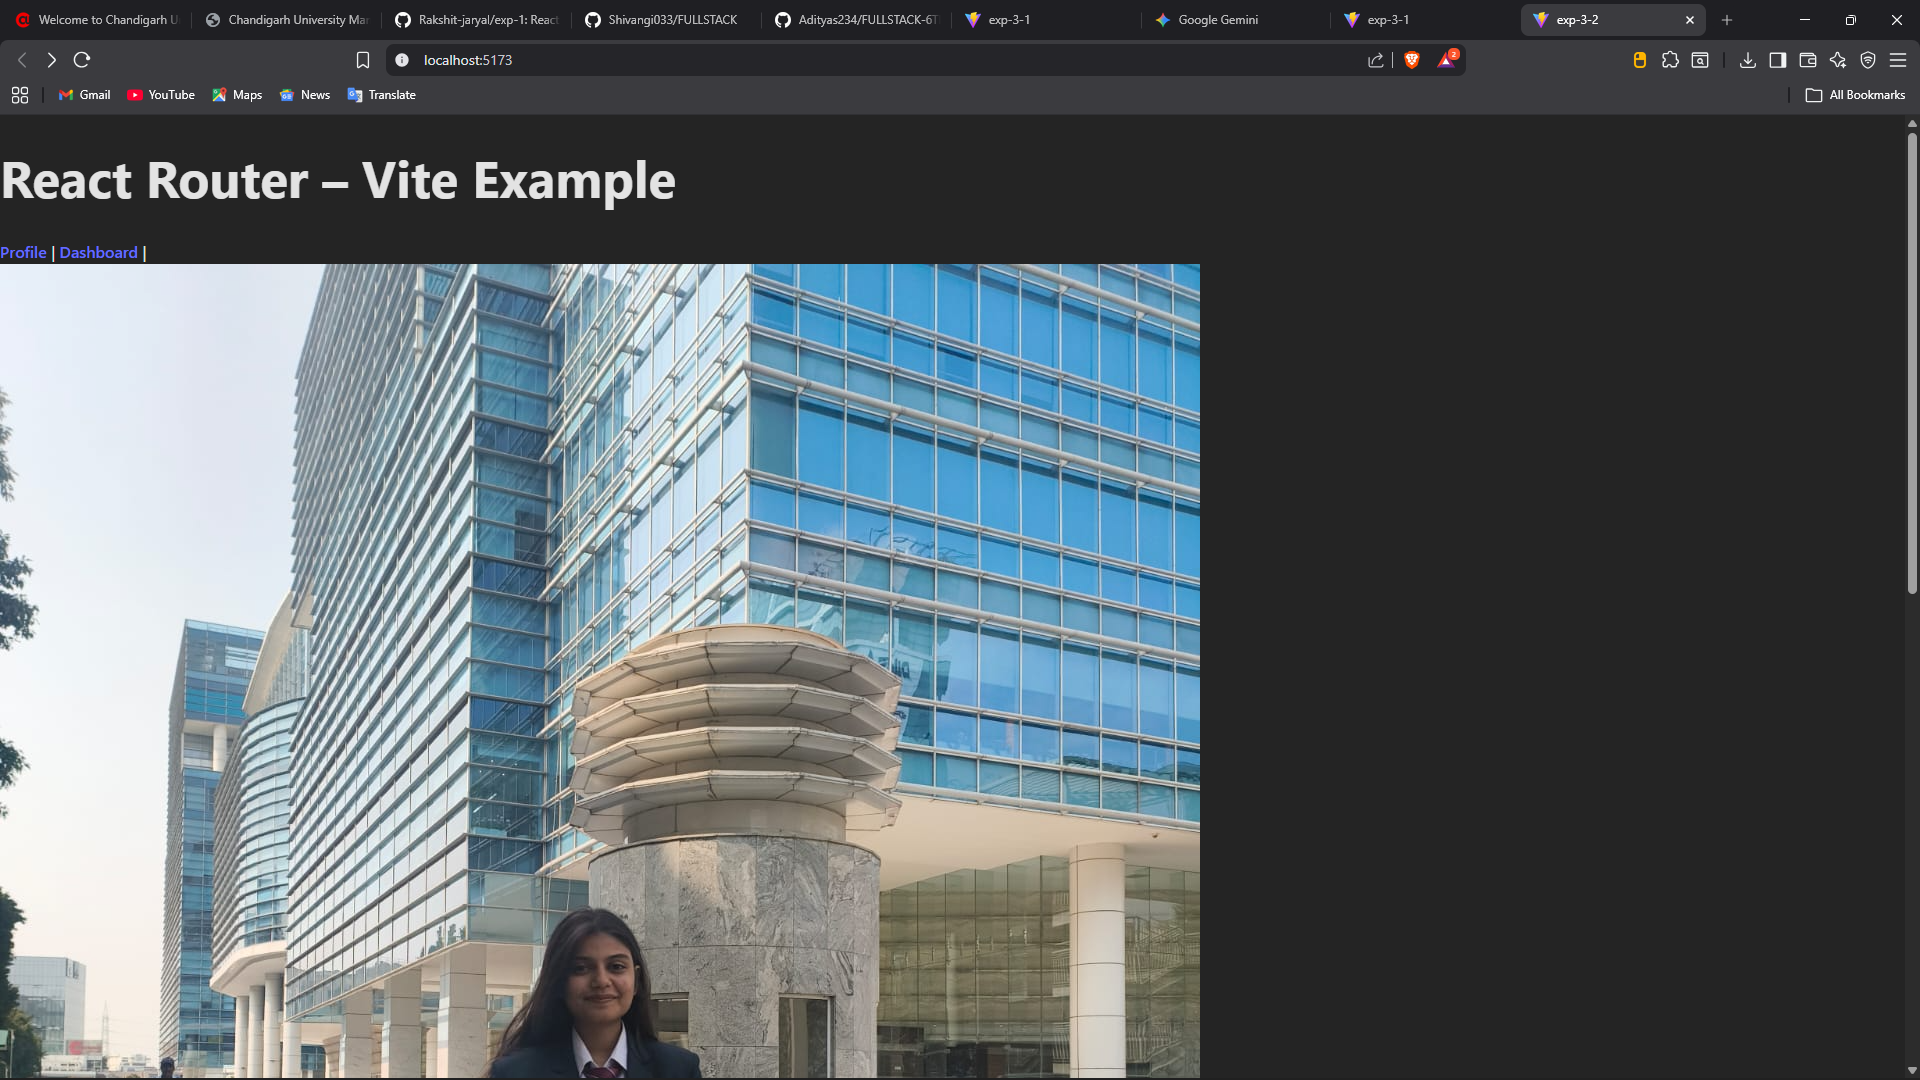
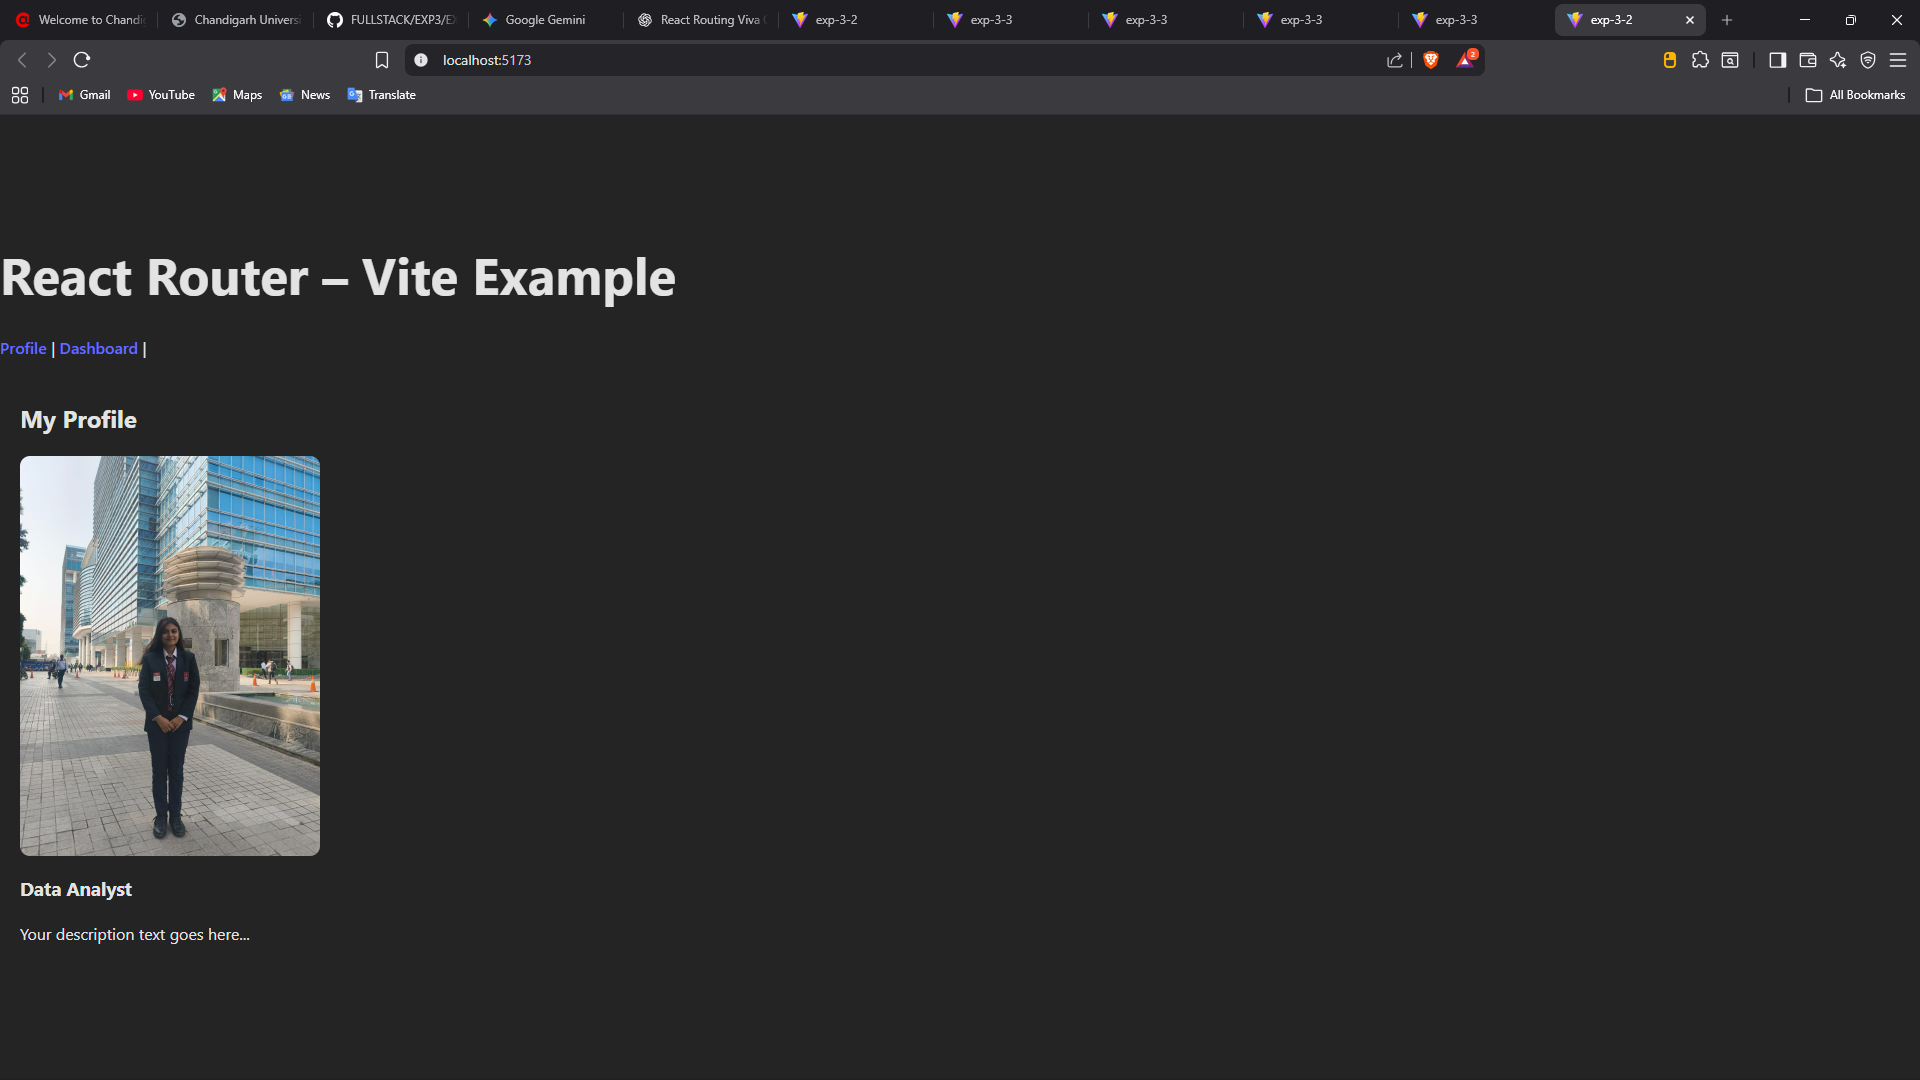
updated readme

diff --git a/EXP3/EXP_3.2/src/pages/Profile.jsx b/EXP3/EXP_3.2/src/pages/Profile.jsx
@@ -1,11 +1,27 @@
+import React from 'react';
+import profilePic from './profile.jpeg'; // This imports your image
+
 function Profile() {
   return (
-    <>
-      <img src="src/pages/profile.jpeg" alt="Profile"/>
-      <h2>Data Analyst</h2>
-      <p>Shivangi Kumari</p>
-      <p>A data analyst is a professional who collects, processes, and performs statistical analyses on large datasets to extract meaningful insights and support decision-making within an organization. They utilize various tools and techniques to interpret data trends, create visualizations, and communicate findings to stakeholders, ultimately helping businesses optimize their operations and strategies.</p>
-    </>
-  )
+    <div style={{ padding: '20px' }}>
+      <h2>My Profile</h2>
+      <img 
+        src={profilePic} 
+        alt="Profile" 
+        style={{ 
+          width: '300px',      /* This makes the width smaller */
+          height: 'auto',       /* This keeps the photo from looking stretched */
+          borderRadius: '10px', /* Optional: adds nice rounded corners */
+          display: 'block',
+          marginTop: '10px'
+        }} 
+      />
+      <div style={{ marginTop: '15px' }}>
+        <h3>Data Analyst</h3>
+        <p>Your description text goes here...</p>
+      </div>
+    </div>
+  );
 }
-export default Profile
+
+export default Profile;

diff --git a/EXP3/EXP_3.3/src/pages/Profile.jsx b/EXP3/EXP_3.3/src/pages/Profile.jsx
@@ -1,12 +1,23 @@
+import React from 'react';
+import profilePic from './profile.jpeg'; // This looks in the same 'pages' folder
+
 function Profile() {
   return (
-    <>
-      <img src="src/profile.jpeg" alt="Profile"/>
-      
-      <h2>Data Analyst</h2>
-      <p>Shivangi Kumari</p>
-      <p>A data analyst is a professional who collects, processes, and performs statistical analyses on large datasets to extract meaningful insights and support decision-making within an organization. They utilize various tools and techniques to interpret data trends, create visualizations, and communicate findings to stakeholders, ultimately helping businesses optimize their operations and strategies.</p>
-    </>
-  )
+    <div style={{ padding: '20px' }}>
+      <h2>My Profile</h2>
+      <img 
+        src={profilePic} 
+        alt="Profile" 
+        style={{ 
+          width: '300px',      /* This shortens the size */
+          height: 'auto',       /* This keeps the proportions correct */
+          borderRadius: '10px', /* Optional: adds rounded corners */
+          display: 'block',
+          marginTop: '10px'
+        }} 
+      />
+    </div>
+  );
 }
-export default Profile
+
+export default Profile;
